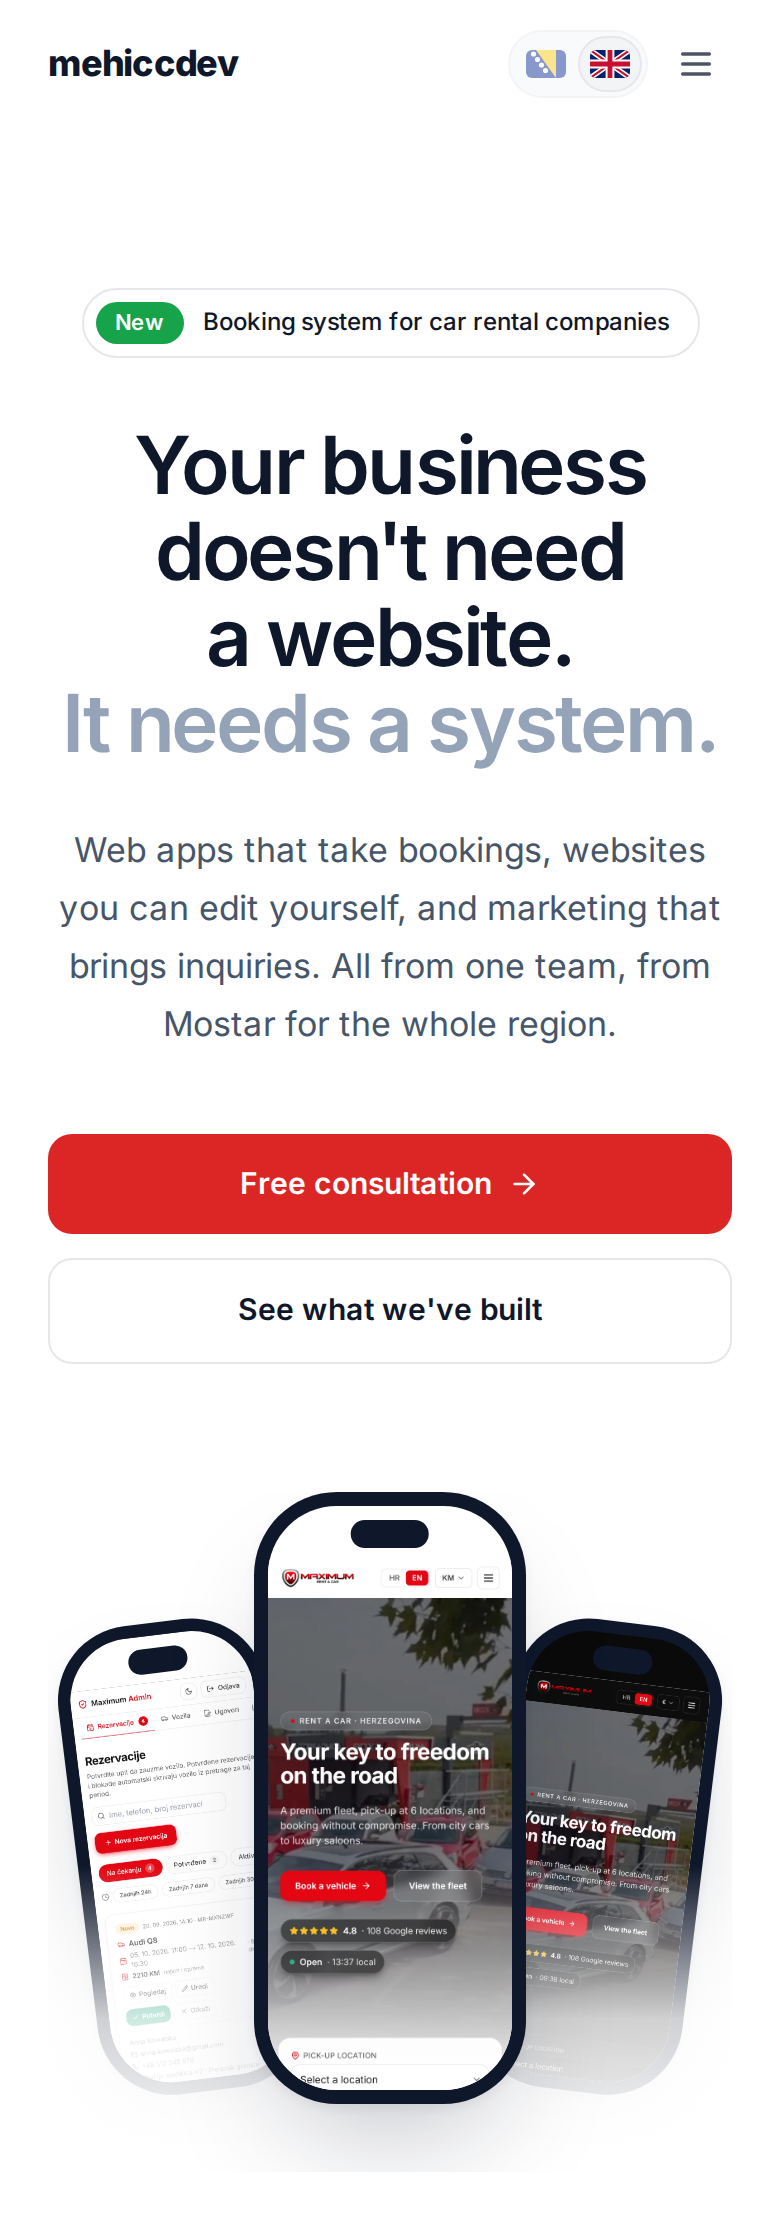
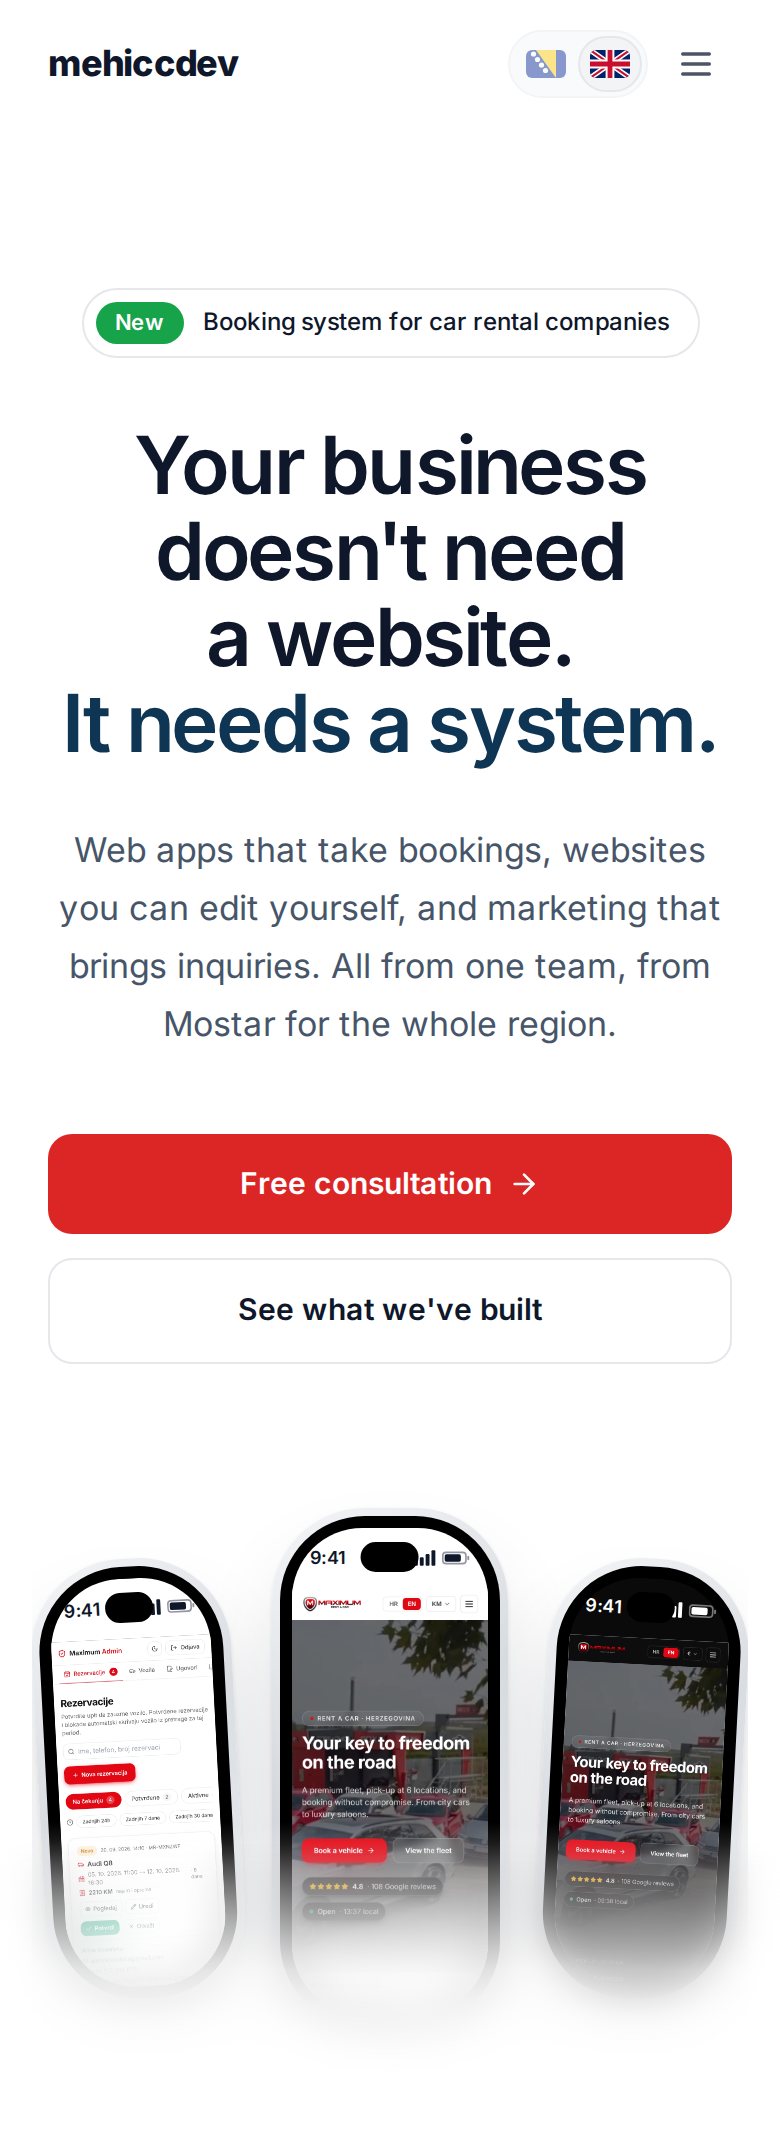
feat: telefoni u heroju jedan pored drugog sa zamucenjem

diff --git a/components/sections/Hero.tsx b/components/sections/Hero.tsx
@@ -66,28 +66,44 @@ const T: Record<"bs" | "en", Content> = {
   },
 };
 
-/* Meka, duboka sjena telefona: dva sloja, kratki i dugi, bez boje. */
+/* Meka sjena telefona: kratki sloj uz rub i dugi, blijedi ispod. */
 const PHONE_SHADOW =
-  "0 2px 6px rgba(15,23,42,0.06), 0 30px 60px -20px rgba(15,23,42,0.28)";
+  "0 1px 2px rgba(15,23,42,0.08), 0 24px 50px -18px rgba(15,23,42,0.30)";
 
-/* ── Okvir telefona ──────────────────────────────────────────────────────────
-   Tanak tamni rub i zaobljeni uglovi. Screenshotovi nemaju statusnu traku,
-   pa je dodajemo iznad slike, u boji vrha same stranice, i u nju stavljamo
-   dinamičko ostrvo. Tako ostrvo ništa ne prekriva, kao na pravom telefonu.
-   Slika se servira netaknuta (unoptimized), oštra i na Retina ekranima.  */
+/* ── Okvir telefona, po uzoru na referencu ──────────────────────────────────
+   Tri sloja, od spolja prema unutra:
+     1. srebrni okvir (svijetli gradijent, kao aluminijum)
+     2. tanak crni bezel
+     3. ekran: statusna traka s vremenom, ostrvom i ikonicama, pa slika
+
+   Statusnu traku crtamo sami, jer screenshotovi je nemaju. Boja trake prati
+   vrh stranice na slici, a ikonice su tamne na svijetloj ili svijetle na
+   tamnoj traci. Slika se servira netaknuta (unoptimized), oštra na Retini. */
 function Phone({ src, alt, bar = "light", priority = false }: {
   src: string; alt: string; bar?: "light" | "dark"; priority?: boolean;
 }) {
+  const ink = bar === "dark" ? "#FFFFFF" : "#0F172A";
   return (
-    <div className="relative rounded-[2.6rem] bg-[#0F172A] p-[7px]" style={{ boxShadow: PHONE_SHADOW }}>
-      <div className="relative overflow-hidden rounded-[2.15rem]">
-        <div className={`relative h-[26px] sm:h-[34px] ${bar === "dark" ? "bg-[#0A0A0A]" : "bg-white"}`}>
-          <span aria-hidden
-                className="absolute top-[7px] sm:top-[9px] left-1/2 -translate-x-1/2 w-[32%] h-[14px] sm:h-[18px] rounded-full bg-[#0F172A]" />
-        </div>
-        <div className="relative aspect-[1179/2556] bg-white">
-          <Image src={src} alt={alt} fill unoptimized priority={priority}
-                 className="object-cover object-top" />
+    <div
+      className="rounded-[2.9rem] p-[4px]"
+      style={{ background: "linear-gradient(145deg, #F4F5F7 0%, #D9DCE1 45%, #EEF0F3 100%)", boxShadow: PHONE_SHADOW }}
+    >
+      <div className="rounded-[2.65rem] bg-black p-[6px]">
+        <div className="relative overflow-hidden rounded-[2.2rem]">
+          {/* statusna traka */}
+          <div className={`relative flex items-center justify-between px-[9%] h-[30px] sm:h-[38px] ${bar === "dark" ? "bg-[#0A0A0A]" : "bg-white"}`}>
+            <span className="text-[9px] sm:text-[12px] font-semibold tracking-tight" style={{ color: ink }}>9:41</span>
+            <span aria-hidden className="absolute top-[7px] sm:top-[9px] left-1/2 -translate-x-1/2 w-[30%] h-[15px] sm:h-[20px] rounded-full bg-black" />
+            <span className="flex items-center gap-[3px]" aria-hidden>
+              <svg width="15" height="10" viewBox="0 0 17 12" className="w-[11px] sm:w-[15px]"><g fill={ink}><rect x="0" y="8" width="3" height="4" rx=".8"/><rect x="4.5" y="5.5" width="3" height="6.5" rx=".8"/><rect x="9" y="3" width="3" height="9" rx=".8"/><rect x="13.5" y="0" width="3" height="12" rx=".8"/></g></svg>
+              <svg width="20" height="10" viewBox="0 0 26 12" className="w-[14px] sm:w-[20px]"><rect x=".75" y=".75" width="21.5" height="10.5" rx="3" fill="none" stroke={ink} strokeOpacity=".45" strokeWidth="1.5"/><rect x="2.5" y="2.5" width="15" height="7" rx="1.6" fill={ink}/><rect x="23.5" y="4" width="1.8" height="4" rx=".9" fill={ink} fillOpacity=".45"/></svg>
+            </span>
+          </div>
+          {/* ekran */}
+          <div className="relative aspect-[1179/2556] bg-white">
+            <Image src={src} alt={alt} fill unoptimized priority={priority}
+                   className="object-cover object-top" />
+          </div>
         </div>
       </div>
     </div>
@@ -178,39 +194,42 @@ export function Hero() {
       </div>
 
       {/* ── 5. tri telefona ──────────────────────────────────────────────────
-          Srednji je naprijed i najveći. Bočni su umanjeni, nagnuti prema van
-          i spušteni, pa izgledaju kao da stoje iza njega. Donji dio sekcije
-          se utapa u bijelo, kao na referenci. */}
-      <motion.div
-        {...rise(0.28)}
-        className="relative mx-auto mt-16 sm:mt-20 max-w-5xl px-6"
-      >
-        {/* visina je ograničena pa se vidi gornji dio telefona, kao na
-            referenci; ostatak nestaje ispod ruba sekcije */}
-        <div className="relative flex items-start justify-center overflow-hidden
-                        h-[340px] sm:h-[460px] lg:h-[540px]">
-          {/* lijevi */}
-          <div className="relative z-0 w-[34%] max-w-[250px] -mr-[9%] mt-[9%]
-                          -rotate-[7deg] scale-[0.9] origin-bottom-right">
+          Po referenci: stoje JEDAN PORED DRUGOG s malim razmakom, bez
+          preklapanja. Srednji je najveći i najviši, bočni su manji, spušteni
+          i blago nagnuti prema van. Vidi se gornji dio, a dno se postepeno
+          zamućuje i nestaje u bijelom. */}
+      <motion.div {...rise(0.28)} className="relative mx-auto mt-16 sm:mt-20 max-w-5xl px-4 sm:px-6">
+        <div className="relative flex items-start justify-center gap-[3%] sm:gap-[2.5%] pt-2
+                        h-[300px] sm:h-[440px] lg:h-[520px] overflow-hidden">
+          {/* lijevi: manji, niže, nagnut ulijevo */}
+          <div className="w-[28%] sm:w-[30%] max-w-[250px] mt-[7%] -rotate-[3deg] sm:-rotate-[5deg] origin-bottom">
             <Phone src="/portfolio/maximum-admin-mob-svijetla.webp" alt={d.shots.left} />
           </div>
 
-          {/* srednji */}
-          <div className="relative z-10 w-[40%] max-w-[290px]">
+          {/* srednji: najveći i najviši */}
+          <div className="w-[33%] sm:w-[35%] max-w-[300px]">
             <Phone src="/portfolio/maximum-poslije-mob.webp" alt={d.shots.center} priority />
           </div>
 
-          {/* desni */}
-          <div className="relative z-0 w-[34%] max-w-[250px] -ml-[9%] mt-[9%]
-                          rotate-[7deg] scale-[0.9] origin-bottom-left">
+          {/* desni: manji, niže, nagnut udesno */}
+          <div className="w-[28%] sm:w-[30%] max-w-[250px] mt-[7%] rotate-[3deg] sm:rotate-[5deg] origin-bottom">
             <Phone src="/portfolio/maximum-hero-mob.webp" alt={d.shots.right} bar="dark" />
           </div>
         </div>
 
-        {/* utapanje u bijelo pri dnu */}
-        <div aria-hidden
-             className="pointer-events-none absolute inset-x-0 bottom-0 h-[45%]
-                        bg-gradient-to-b from-white/0 via-white/80 to-white" />
+        {/* Zamućenje pri dnu, u dva sloja:
+              1. zamućenje koje jača prema dnu (maska ga postepeno uvodi)
+              2. preliv u bijelo preko njega, da donja ivica potpuno nestane
+            Zamućenje je u style, jer stranica ima pravilo koje gasi klase
+            sa zamućenjem. */}
+        <div aria-hidden className="pointer-events-none absolute inset-x-0 bottom-0 h-[42%]"
+             style={{
+               backdropFilter: "blur(10px)", WebkitBackdropFilter: "blur(10px)",
+               maskImage: "linear-gradient(to bottom, transparent 0%, black 65%)",
+               WebkitMaskImage: "linear-gradient(to bottom, transparent 0%, black 65%)",
+             }} />
+        <div aria-hidden className="pointer-events-none absolute inset-x-0 bottom-0 h-[45%]"
+             style={{ background: "linear-gradient(to bottom, rgba(255,255,255,0) 0%, rgba(255,255,255,0.75) 55%, #FFFFFF 100%)" }} />
       </motion.div>
 
       {/* sekcija se završava ispod telefona, bez dodatnog prostora */}
